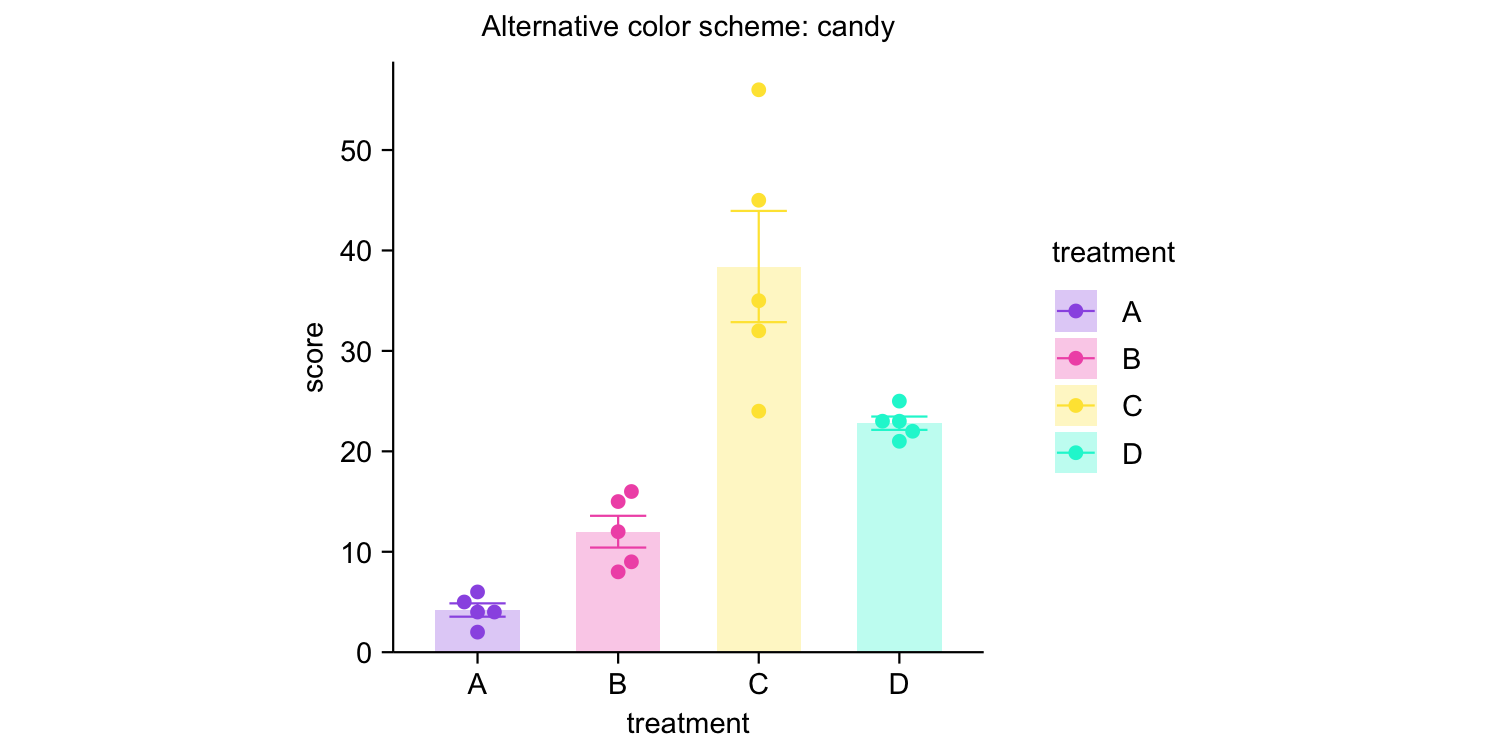
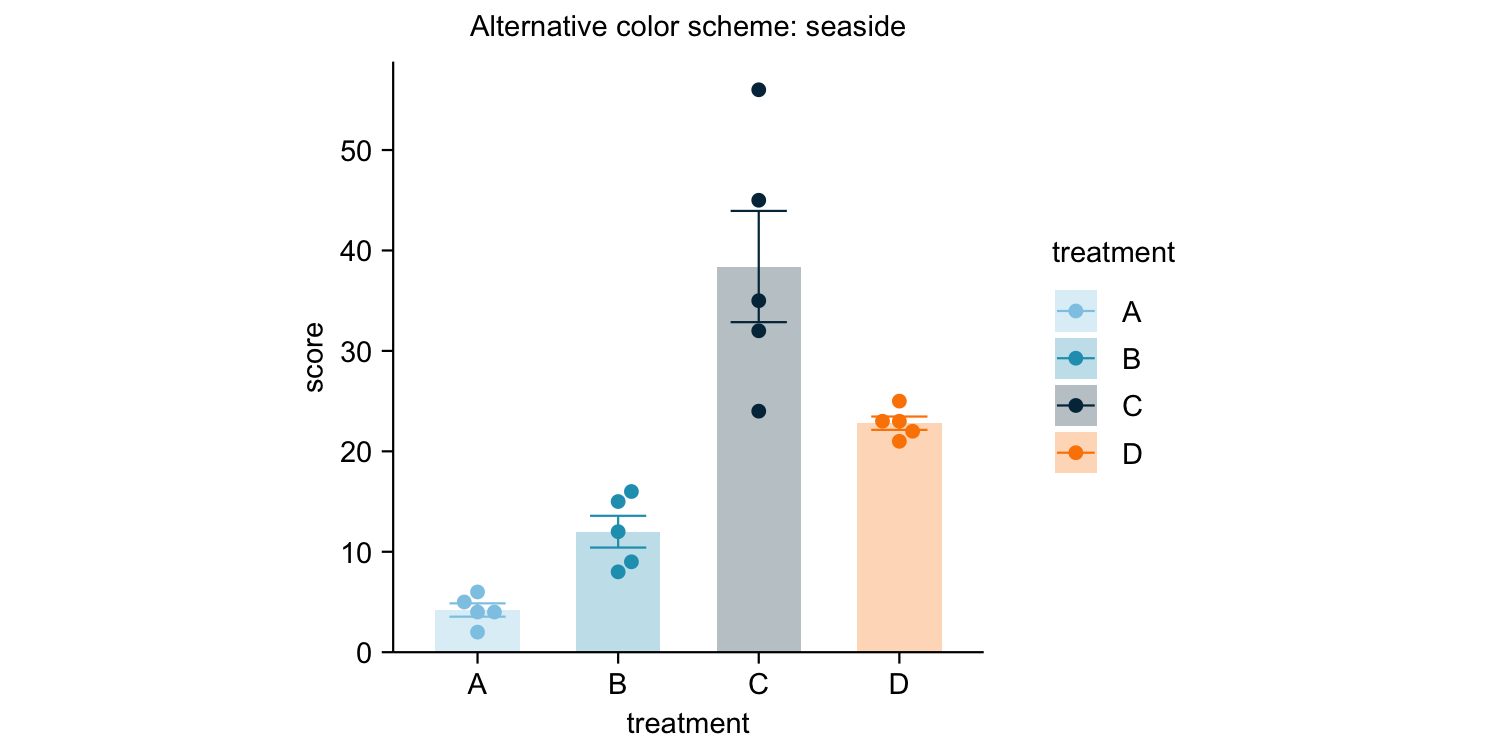
update readme

diff --git a/README.md b/README.md
@@ -6,8 +6,6 @@
 <!-- badges: start -->
 
 [![R-CMD-check](https://github.com/jbengler/tidyplots/actions/workflows/R-CMD-check.yaml/badge.svg)](https://github.com/jbengler/tidyplots/actions/workflows/R-CMD-check.yaml)
-[![Lifecycle:
-experimental](https://img.shields.io/badge/lifecycle-experimental-orange.svg)](https://lifecycle.r-lib.org/articles/stages.html#experimental)
 <!-- badges: end -->
 
 The goal of `tidyplots` is to streamline the creation of
@@ -133,13 +131,11 @@ study %>%
   add_error_bar() %>% 
   add_data_points_beeswarm() %>% 
   view_plot(title = "Default color scheme: metro") %>% 
-  adjust_colors(colors_discrete_candy) %>% 
-  view_plot(title = "Alternative color scheme: candy") %>% 
   adjust_colors(colors_discrete_seaside) %>% 
   view_plot(title = "Alternative color scheme: seaside")
 ```
 
-<img src="man/figures/README-unnamed-chunk-11-1.png" style="display: block; margin: auto;" /><img src="man/figures/README-unnamed-chunk-11-2.png" style="display: block; margin: auto;" /><img src="man/figures/README-unnamed-chunk-11-3.png" style="display: block; margin: auto;" />
+<img src="man/figures/README-unnamed-chunk-11-1.png" style="display: block; margin: auto;" /><img src="man/figures/README-unnamed-chunk-11-2.png" style="display: block; margin: auto;" />
 
 ## Acknowledgements
 
